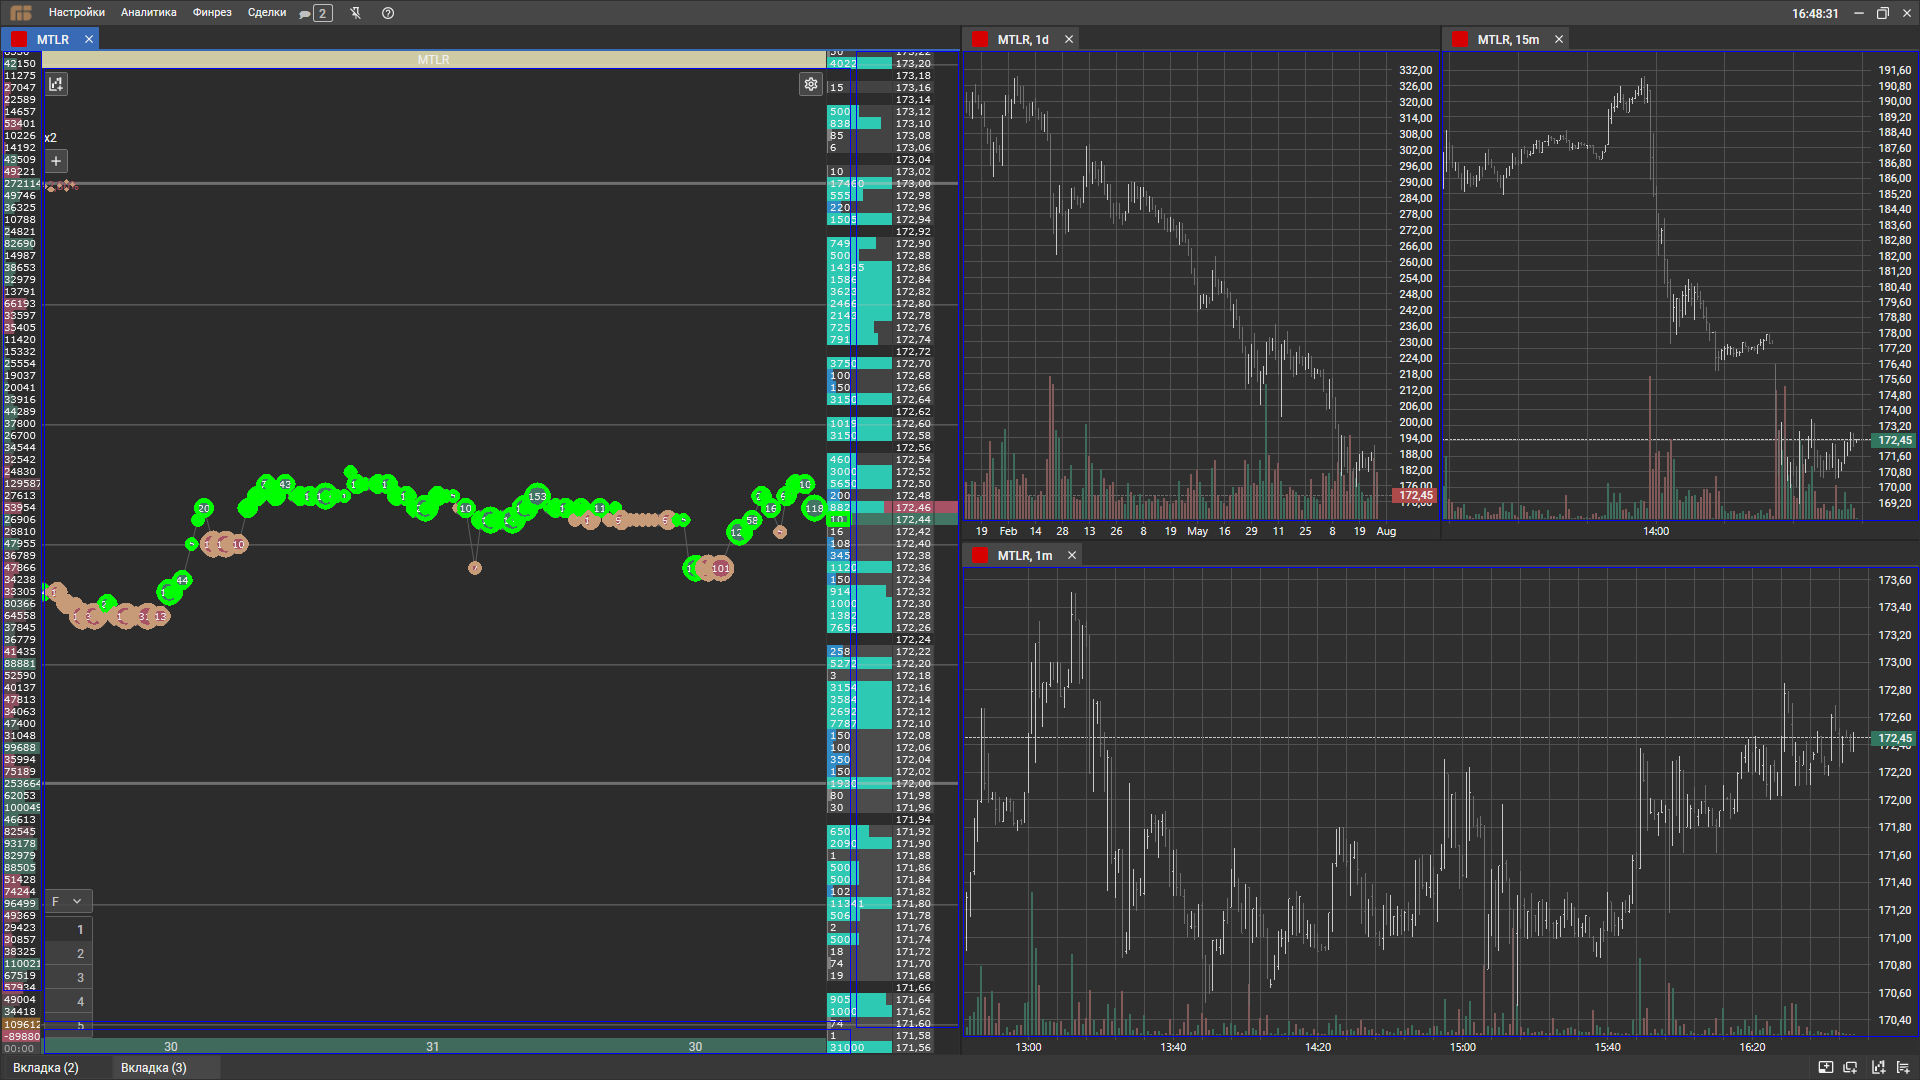
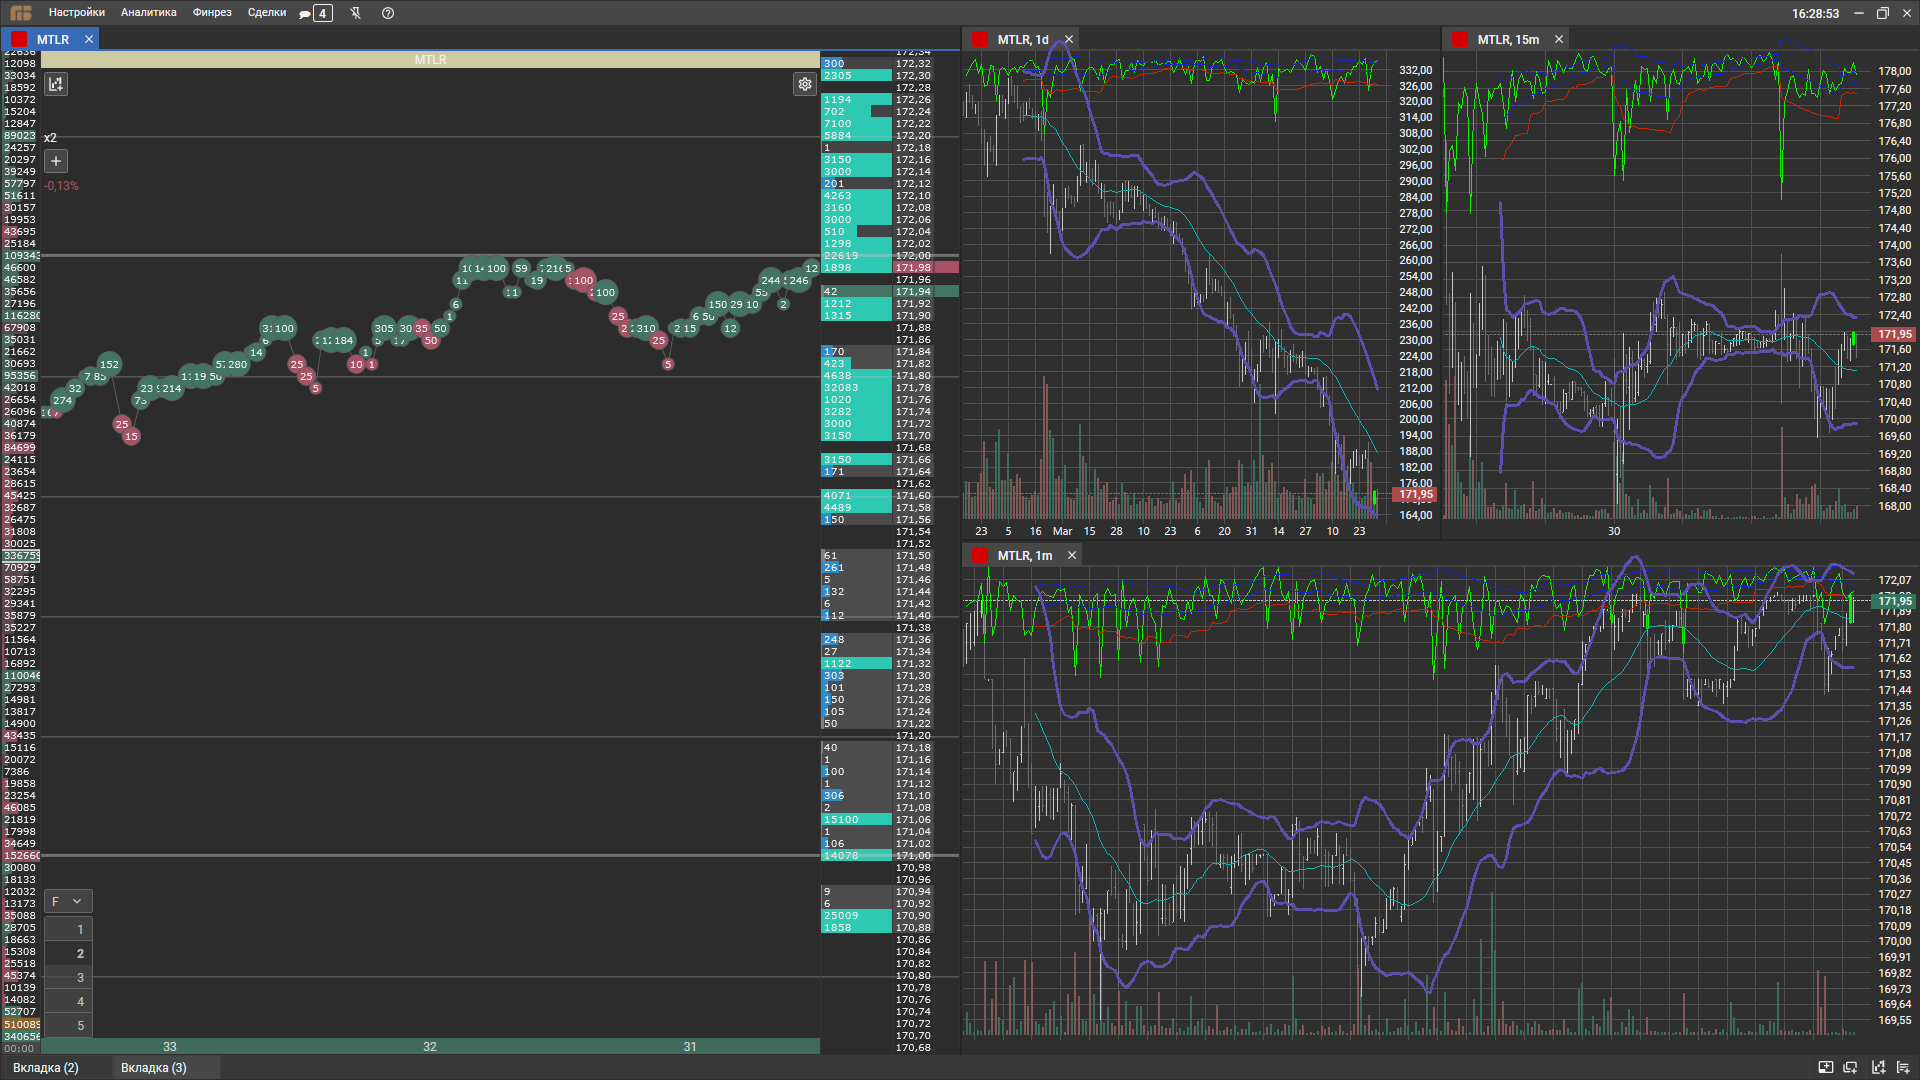
add_range_in_PT1

diff --git a/visual_traider_v1/analiz_test.html b/visual_traider_v1/analiz_test.html
@@ -8,7 +8,8 @@
 <body>
     <style>
         img {
-            max-height: 55vh;
+            width: 100vh;
+            height: 80vh;
         }
     </style>
     <div id="analiz"></div>

diff --git a/visual_traider_v1/traider_bots/ST1.py b/visual_traider_v1/traider_bots/ST1.py
@@ -1,14 +1,14 @@
-# Profitable Trader 1 - PT1
 import cv2
 import numpy as np
 import numpy.typing as npt
 from traider_bots.VisualTraider_v2 import VisualTraider_v2
 from utils.chart_utils.indicators import get_bollinger_bands
-class PT1(VisualTraider_v2):
+
+class ST1(VisualTraider_v2):
     def __init__(self, cluster: tuple, dealfeed: tuple, glass: tuple, day: tuple, hour: tuple, minute: tuple, position: tuple, name: str, mode: int = 0) -> None:
         super().__init__(cluster, dealfeed, glass, day, hour, minute, position, name, mode)
-        self.traider_name = 'PT1'
-    
+        self.traider_name = 'ST1'
+
     def _get_keys(self, img, region) -> dict:
         chart = self._get_chart(img,region)
         candle_mask = self._get_candle_mask(chart)
@@ -17,10 +17,16 @@ class PT1(VisualTraider_v2):
         volume_cords = self._get_cords_on_mask(volume_mask)
         half_bars = self._get_half_bars(candle_mask,candle_cords,volume_cords)
         mpts = []
+        vsaipts = []
         for i in range(len(half_bars)):
             mpt = half_bars[i].mpt
+            vsaipt = half_bars[i].vsaipt
             mpts.append(mpt)
+            vsaipts.append(vsaipt)
+        vsaipts = np.array(vsaipts)
+        vsai_sma,vsai_bbu,vsai_bbd = get_bollinger_bands(vsaipts,1)
         m_sma,bbu,bbd = get_bollinger_bands(np.array(mpts))
+        s_m_sma,s_bbu,s_bbd = get_bollinger_bands(np.array(mpts),1)
         points = self._get_points(half_bars)
         x,y = self._get_xy(points)
         trend,top_trend,bottom_trend,slope = self._get_trend_lines(x,y)
@@ -33,11 +39,18 @@ class PT1(VisualTraider_v2):
             'm_sma':m_sma,
             'bbu':bbu,
             'bbd':bbd,
+            's_m_sma':s_m_sma,
+            's_bbu':s_bbu,
+            's_bbd':s_bbd,
+            'vsaipts':vsaipts,
+            'vsai_bbd':vsai_bbd,
             'slope':slope,
-            'stop':(trend[-1][1]-top_trend[-1][1])//2
+            'stop':(trend[-1][1]-top_trend[-1][1])//2,
+            'last_hpt':half_bars[-2].hpt,
+            'last_lpt':half_bars[-2].lpt
         }
         return keys
-
+    
     def _draw(self,img,keys:dict,region):
         keys_copy = keys.copy()
         colors = (
@@ -47,6 +60,11 @@ class PT1(VisualTraider_v2):
             (230,100,0),
             (230,200,50),
             (230,100,200),
+            (130,100,0),
+            (130,200,50),
+            (130,100,200),
+            (30,200,10),
+            (230,10,200),
         )
         i = 0
         for key in keys_copy:
@@ -71,49 +89,42 @@ class PT1(VisualTraider_v2):
     def _check_price_in_trend(self,keys):
         return keys['top_trend'][-1][1] < keys['cur_price'][1] < keys['bottom_trend'][-1][1]
     
+    def _check_vsai_over(self,keys):
+        return keys['vsaipts'][-1][1] > keys['vsai_bbd'][-1][1]
+    
     def _test(self, img):
         h_keys = self._get_keys(img,self.hour_chart_region)
         m_keys = self._get_keys(img,self.minute_chart_region)
         draw_func = lambda img:self._all_draw(img,m_keys,h_keys)
         # open
-        if self._check_price_in_trend(h_keys):
-            if self._check_over_limit(m_keys) == 1 and h_keys['slope'] < 0.1:
-                self._test_send_open(img,'long',draw_func)
-        if self._check_price_in_trend(h_keys):
-            if self._check_over_limit(m_keys) == -1 and h_keys['slope'] > -0.1:
-                self._test_send_open(img,'short',draw_func)         
-        # close
+        # price in range_channel
+        # price in long_channel
+        # price in short_channel
+
+        if self._check_vsai_over(m_keys):
+            if self._check_price_in_trend(h_keys) and h_keys['slope'] < -0.1:
+                if self._check_over_limit(m_keys) == 1:
+                    self._test_send_open(img,'long',draw_func)
+
+            if self._check_price_in_trend(h_keys) and h_keys['slope'] > 0.1:
+                if self._check_over_limit(m_keys) == -1:
+                    self._test_send_open(img,'short',draw_func)
+
+        
+        # vsai 
+
         if m_keys['cur_price'][1] > m_keys['m_sma'][-1][1]:
             self._test_send_close(img,'short',draw_func)
         if m_keys['cur_price'][1] < m_keys['m_sma'][-1][1]:
             self._test_send_close(img,'long',draw_func)
-    
-    def _traide(self, img):
-        pos = self._check_position(img)
-        h_keys = self._get_keys(img,self.hour_chart_region)
-        m_keys = self._get_keys(img,self.minute_chart_region)
-        # close long
-        if pos == 1:
-            if m_keys['cur_price'][1] < m_keys['m_sma'][-1][1]:
-                self._send_close(img,'long')
-        # close short
-        elif pos == -1:
-            if m_keys['cur_price'][1] > m_keys['m_sma'][-1][1]:
-                self._send_close(img,'short')
-        # open position
-        else:
-            if self._check_price_in_trend(h_keys):
-                if self._check_over_limit(m_keys) == 1 and h_keys['slope'] < 0.1:
-                    self._send_open('long')
-                    return
-            if self._check_price_in_trend(h_keys):
-                if self._check_over_limit(m_keys) == -1  and h_keys['slope'] > -0.1:
-                    self._send_open('short')
-                    return
-            self._reset_req()
-        # stop
+        # price in overlimit
+        # if m_keys['last_hpt'][1] <= m_keys['bbu'][-1][1] and self._check_over_limit(m_keys) == -1 and m_keys['slope'] > -0.1:
+        #         self._test_send_open(img,'long',draw_func)
+        # if m_keys['last_lpt'][1] >= m_keys['bbd'][-1][1] and self._check_over_limit(m_keys) == 1 and m_keys['slope'] < 0.1:
+        #         self._test_send_open(img,'short',draw_func)
 
-
-
-        
-
+        # # close
+        # if m_keys['last_hpt'][1] > m_keys['s_bbu'][-1][1] < m_keys['cur_price'][1]:
+        #     self._test_send_close(img,'long',draw_func)
+        # if m_keys['last_lpt'][1] < m_keys['s_bbd'][-1][1] > m_keys['cur_price'][1]:
+        #     self._test_send_close(img,'short',draw_func)

diff --git a/visual_traider_v1/traider_bots/help_bots/WorkBot.py b/visual_traider_v1/traider_bots/help_bots/WorkBot.py
@@ -1,9 +1,8 @@
 import cv2
 import numpy as np
 from traider_bots.VisualTraider_v2 import VisualTraider_v2
-from utils.chart_utils.indicators import get_SMA, get_bollinger_bands
+from utils.chart_utils.indicators import get_SMA, get_bollinger_bands,get_fractals
 from utils.config import ColorsBtnBGR
-from sklearn.cluster import AgglomerativeClustering
 class WorkBot(VisualTraider_v2):
     def __init__(self, cluster: tuple, dealfeed: tuple, glass: tuple, day: tuple, hour: tuple, minute: tuple, position: tuple, name: str, mode: int = 0) -> None:
         super().__init__(cluster, dealfeed, glass, day, hour, minute, position, name, mode)
@@ -26,31 +25,54 @@ class WorkBot(VisualTraider_v2):
         mean_volume = self._get_mean(volume_cords)
         vpts = []
         mpts = []
+        hpts = []
+        lpts = []
+        vsaipts = []
         for i in range(len(half_bars)):
             hpt,lpt,vpt = half_bars[i].to_img_cords(change_cords)
             mpt = change_cords(half_bars[i].mpt)
+            vsaipt = change_cords(half_bars[i].vsaipt)
             mpts.append(mpt)
             vpts.append(vpt)
-            if half_bars[i].is_big_volume(mean_volume[1]): 
-                cv2.circle(img,vpt,1,(0,200,0))
-                cv2.line(img,hpt,lpt,colors[1],1)
-        period = 27
-        V_sma = get_SMA(np.array(vpts),period)
+            hpts.append(hpt)
+            lpts.append(lpt)
+            vsaipts.append(vsaipt)
+
+        vsaipts = np.array(vsaipts)
+        vsai_sma,vsai_bbu,vsai_bbd = get_bollinger_bands(vsaipts,1)
+        cv2.polylines(img,[vsaipts],False,(0,240,20),1)
+        cv2.polylines(img,[vsai_sma],False,(200,40,20),1)
+        cv2.polylines(img,[vsai_bbd],False,(00,40,200),1)
+        cv2.polylines(img,[vsai_bbu],False,(200,40,20),1)
+        cv2.line(img,hpts[-2],lpts[-2],(0,250,0),2)
+        #     if half_bars[i].is_big_volume(mean_volume[1]): 
+        #         cv2.circle(img,vpt,1,(0,200,0))
+        #         cv2.line(img,hpt,lpt,colors[1],1)
+        # period = 27
+        # V_sma = get_SMA(np.array(vpts),period)
         m_sma,bbu,bbd = get_bollinger_bands(np.array(mpts))
-        cv2.polylines(img,[V_sma],False,(176,80,10),2)
+        # _,bbu1,bbd1 = get_bollinger_bands(np.array(mpts),1)
+        # cv2.polylines(img,[V_sma],False,(176,80,10),2)
         cv2.polylines(img,[m_sma],False,(176,180,10),1)
         cv2.polylines(img,[bbu],False,(176,80,90),2)
         cv2.polylines(img,[bbd],False,(176,80,90),2)
-        mean_volume = change_cords(mean_volume)
-        cv2.circle(img,mean_volume,1,(150,200,70),3)
-        points = self._get_points(half_bars)
-        for i in range(points.shape[0]):
-            points[i] = change_cords(points[i])
-        x,y = self._get_xy(points)
-        trend,top_trend,bottom_trend = self._get_trend_lines(x,y)
-        cv2.polylines(img,[trend],False,(255,255,255),2)
-        cv2.polylines(img,[top_trend],False,(255,255,255),2)
-        cv2.polylines(img,[bottom_trend],False,(255,255,255),2)
+        # cv2.polylines(img,[bbu1],False,(176,180,90),2)
+        # cv2.polylines(img,[bbd1],False,(176,180,90),2)
+        # mean_volume = change_cords(mean_volume)
+        # cv2.circle(img,mean_volume,1,(150,200,70),3)
+        # points = self._get_points(half_bars)
+        # for i in range(points.shape[0]):
+        #     points[i] = change_cords(points[i])
+        # x,y = self._get_xy(points)
+        # trend,top_trend,bottom_trend,slope = self._get_trend_lines(x,y)
+        # cv2.polylines(img,[trend],False,(255,255,255),2)
+        # cv2.polylines(img,[top_trend],False,(255,255,255),2)
+        # cv2.polylines(img,[bottom_trend],False,(255,255,255),2)
+
+        # maxs,mins = get_fractals(hpts,lpts)
+
+        # cv2.polylines(img,[maxs],False,(55,155,255),2)
+        # cv2.polylines(img,[mins],False,(55,55,255),2)
 
     def _get_dealfeed(self,img):
         dealfeed = self._get_chart(img,self.dealfeed_region)
@@ -62,11 +84,11 @@ class WorkBot(VisualTraider_v2):
         cv2.drawContours(img, contours,-1,(120,155,200),3) 
 
     def _test(self, img):
-        self._get_dealfeed(img)
+        # self._get_dealfeed(img)
 
-        # self.draw_all(img,self.day_chart_region)
-        # self.draw_all(img,self.hour_chart_region)
-        # self.draw_all(img,self.minute_chart_region)
+        self.draw_all(img,self.day_chart_region)
+        self.draw_all(img,self.hour_chart_region)
+        self.draw_all(img,self.minute_chart_region)
 
         # cv2.imwrite('test.png',img)
 

diff --git a/visual_traider_v1/utils/chart_utils/indicators.py b/visual_traider_v1/utils/chart_utils/indicators.py
@@ -1,6 +1,7 @@
 import numpy as np
 import numpy.typing as npt
 from utils.ML_utils.LR_utils import get_linear_regress,get_points_linear_reg
+from utils.chart_utils.dtype import HalfBar
 
 def get_SMA(points:npt.NDArray,step) -> npt.NDArray:
     moving_averages = []
@@ -15,7 +16,7 @@ def get_SMA(points:npt.NDArray,step) -> npt.NDArray:
         i += 1
     return np.array(moving_averages)
 
-def get_bollinger_bands(points:npt.NDArray) -> tuple[npt.NDArray]:
+def get_bollinger_bands(points:npt.NDArray,k:int=2) -> tuple[npt.NDArray]:
     sma20 = []
     bbu = []
     bbd = []
@@ -27,7 +28,7 @@ def get_bollinger_bands(points:npt.NDArray) -> tuple[npt.NDArray]:
         window_averagex = points[i-1][0]
         window_averagey = cum_sumy // step
         sma20.append([window_averagex,window_averagey])
-        std = int(np.std(slice))*2
+        std = int(np.std(slice)*k)
         bbu_y = window_averagey - std
         bbd_y = window_averagey + std
         bbu.append([window_averagex,bbu_y])
@@ -55,3 +56,28 @@ def get_trend_lines(x,y):
 def get_last_point_trend(x,y):
     trend,top_trend,bottom_trend = get_trend_lines(x,y)
     return trend[-1],top_trend[-1],bottom_trend[-1]
+
+def get_fractals(hpts,lpts,n=5):
+    maxs = []
+    mins = []
+    for i in range(n,len(hpts),n):
+        max_p = hpts[i][1]
+        min_p = lpts[i][1]
+        ph = hpts[i]
+        pl = lpts[i]
+        for j in range(i-n,i):
+
+            if max_p > hpts[j][1]:
+                max_p = hpts[j][1]
+                ph = hpts[j]
+            if min_p < lpts[j][1]:
+                min_p = lpts[j][1]
+                pl = lpts[j]
+        maxs.append(np.array(ph))
+        mins.append(np.array(pl))
+
+    return np.array(maxs),np.array(mins)
+
+
+
+        

diff --git a/visual_traider_v1/test_env.py b/visual_traider_v1/test_env.py
@@ -1,21 +1,21 @@
 import os
 import cv2
 from stock_groups import stock_groups
-from traider_bots.PT1 import PT1
+from traider_bots.PT1 import PT1 as Trader
 from settings import configuration_traiders_v2, reset_test_json
 
 
 param_bots = configuration_traiders_v2('config.txt')
-date_stock = '26.07.24'
+date_stock = '29.07.24hm'
 img_path = './test_data/'
 
-full_path = img_path + date_stock + '/images/'
+full_path = img_path + date_stock + '/'
 
 imgs = os.listdir(full_path)
 reset_test_json()
-# ticker = 'LKOH'
+
 for ticker in stock_groups:
-    traider = PT1(*param_bots,name=ticker)
+    traider = Trader(*param_bots,name=ticker)
     for img in imgs:
         if ticker in img:
             print(img)

diff --git a/visual_traider_v1/utils/chart_utils/dtype.py b/visual_traider_v1/utils/chart_utils/dtype.py
@@ -8,6 +8,9 @@ class HalfBar:
         self.lpt = (self.x,self.yl)
         self.mpt = (self.x,(self.yh + self.yl)//2)
         self.vpt = (self.x,self.yv)
+        self.spred = yl - yh
+        self.vsai = (self.spred * 10000 - self.yv)//10000
+        self.vsaipt = (self.x,self.vsai)
     
     def __repr__(self) -> str:
         return f'HalfBar x: {self.x} y_high: {self.yh}'

diff --git a/visual_traider_v1/dev_one_time.py b/visual_traider_v1/dev_one_time.py
@@ -4,7 +4,7 @@ from settings import configuration_traiders_v2
 from traider_bots.help_bots.WorkBot import WorkBot
 param_bots = configuration_traiders_v2('config.txt')
 traider = WorkBot(*param_bots,name='MLTR')
-online = False
+online = True
 if online:
     param_bots = configuration_traiders_v2('config_dev.txt')
     traider = WorkBot(*param_bots,name='MLTR')
